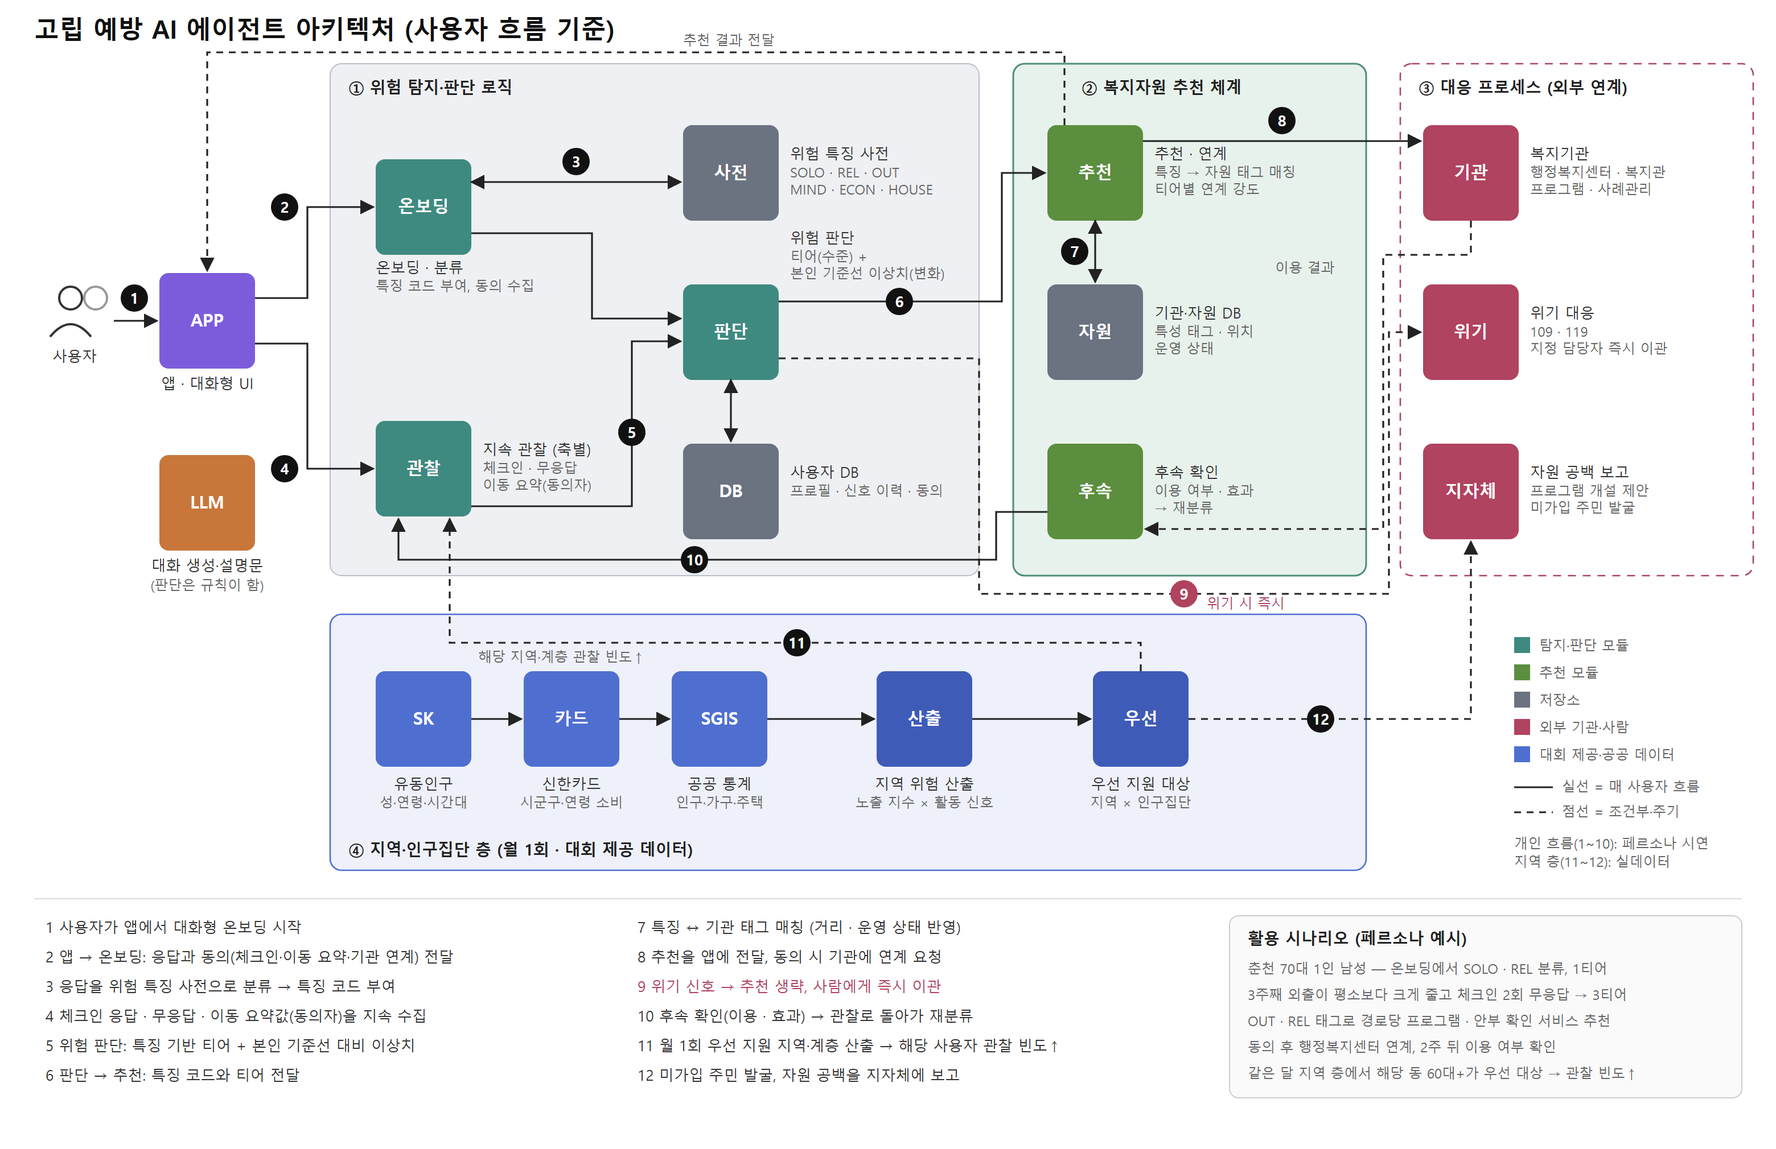
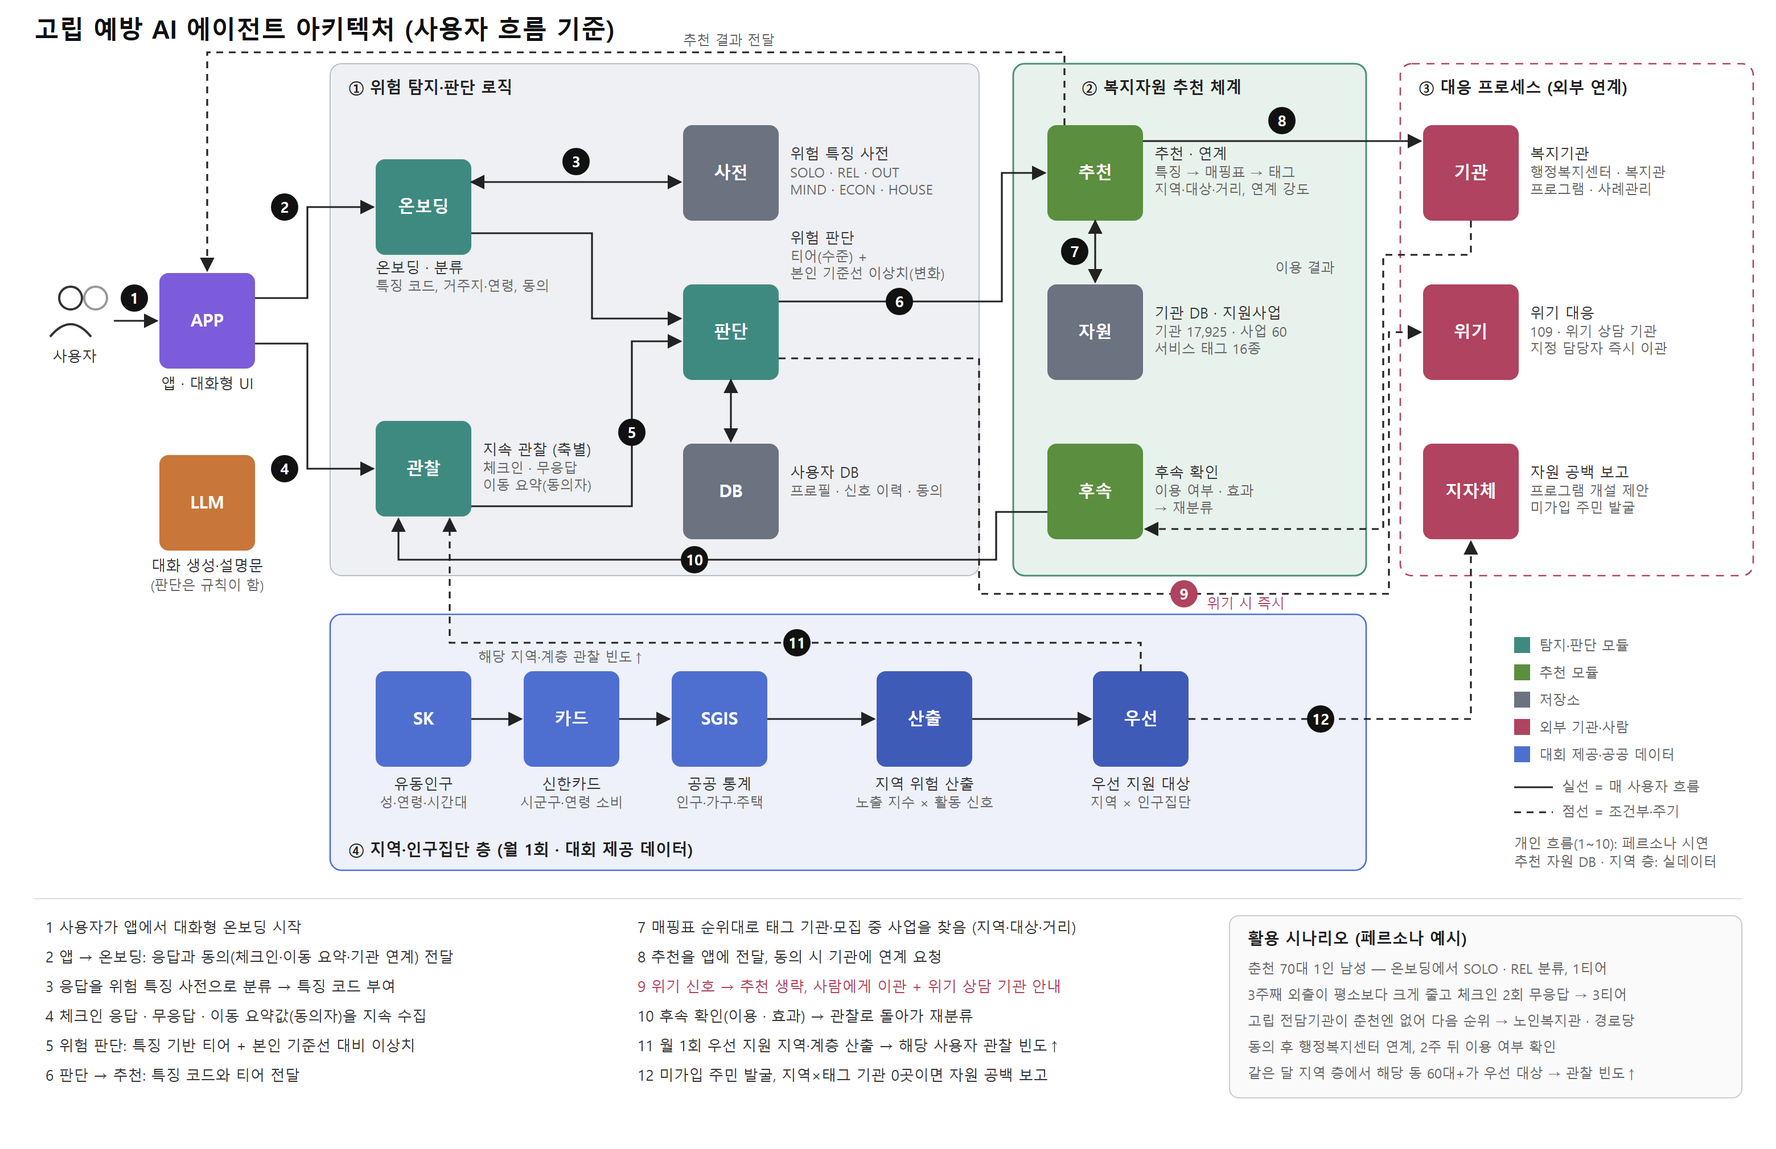
docs: 기관 수집 결과를 반영한 에이전트 서비스 플로우 v1.1 (#19)

diff --git a/docs/agent/architecture.html b/docs/agent/architecture.html
@@ -43,7 +43,7 @@
 
 <!-- ① 탐지·판단 -->
 <rect x="330" y="140" width="84" height="84" rx="8" fill="#3F8A80"/><text x="372" y="187" class="b" text-anchor="middle">온보딩</text>
-<text x="330" y="240" class="t">온보딩 · 분류</text><text x="330" y="256" class="s">특징 코드 부여, 동의 수집</text>
+<text x="330" y="240" class="t">온보딩 · 분류</text><text x="330" y="256" class="s">특징 코드, 거주지·연령, 동의</text>
 <rect x="330" y="370" width="84" height="84" rx="8" fill="#3F8A80"/><text x="372" y="417" class="b" text-anchor="middle">관찰</text>
 <text x="424" y="400" class="t">지속 관찰 (축별)</text><text x="424" y="416" class="s">체크인 · 무응답</text><text x="424" y="431" class="s">이동 요약(동의자)</text>
 <rect x="600" y="110" width="84" height="84" rx="8" fill="#6B7280"/><text x="642" y="157" class="b" text-anchor="middle">사전</text>
@@ -55,9 +55,9 @@
 
 <!-- ② 추천 -->
 <rect x="920" y="110" width="84" height="84" rx="8" fill="#5B8E3E"/><text x="962" y="157" class="b" text-anchor="middle">추천</text>
-<text x="1014" y="140" class="t">추천 · 연계</text><text x="1014" y="156" class="s">특징 → 자원 태그 매칭</text><text x="1014" y="171" class="s">티어별 연계 강도</text>
+<text x="1014" y="140" class="t">추천 · 연계</text><text x="1014" y="156" class="s">특징 → 매핑표 → 태그</text><text x="1014" y="171" class="s">지역·대상·거리, 연계 강도</text>
 <rect x="920" y="250" width="84" height="84" rx="8" fill="#6B7280"/><text x="962" y="297" class="b" text-anchor="middle">자원</text>
-<text x="1014" y="280" class="t">기관·자원 DB</text><text x="1014" y="296" class="s">특성 태그 · 위치</text><text x="1014" y="311" class="s">운영 상태</text>
+<text x="1014" y="280" class="t">기관 DB · 지원사업</text><text x="1014" y="296" class="s">기관 17,925 · 사업 60</text><text x="1014" y="311" class="s">서비스 태그 16종</text>
 <rect x="920" y="390" width="84" height="84" rx="8" fill="#5B8E3E"/><text x="962" y="437" class="b" text-anchor="middle">후속</text>
 <text x="1014" y="420" class="t">후속 확인</text><text x="1014" y="436" class="s">이용 여부 · 효과</text><text x="1014" y="451" class="s">→ 재분류</text>
 
@@ -65,7 +65,7 @@
 <rect x="1250" y="110" width="84" height="84" rx="8" fill="#B0435F"/><text x="1292" y="157" class="b" text-anchor="middle">기관</text>
 <text x="1344" y="140" class="t">복지기관</text><text x="1344" y="156" class="s">행정복지센터 · 복지관</text><text x="1344" y="171" class="s">프로그램 · 사례관리</text>
 <rect x="1250" y="250" width="84" height="84" rx="8" fill="#B0435F"/><text x="1292" y="297" class="b" text-anchor="middle">위기</text>
-<text x="1344" y="280" class="t">위기 대응</text><text x="1344" y="296" class="s">109 · 119</text><text x="1344" y="311" class="s">지정 담당자 즉시 이관</text>
+<text x="1344" y="280" class="t">위기 대응</text><text x="1344" y="296" class="s">109 · 위기 상담 기관</text><text x="1344" y="311" class="s">지정 담당자 즉시 이관</text>
 <rect x="1250" y="390" width="84" height="84" rx="8" fill="#B0435F"/><text x="1292" y="437" class="b" text-anchor="middle">지자체</text>
 <text x="1344" y="420" class="t">자원 공백 보고</text><text x="1344" y="436" class="s">프로그램 개설 제안</text><text x="1344" y="451" class="s">미가입 주민 발굴</text>
 
@@ -147,7 +147,7 @@
   <line x1="0" y1="132" x2="34" y2="132" class="ln"/><text x="42" y="136" class="s">실선 = 매 사용자 흐름</text>
   <line x1="0" y1="154" x2="34" y2="154" class="ln dash"/><text x="42" y="158" class="s">점선 = 조건부·주기</text>
   <text x="0" y="186" class="s">개인 흐름(1~10): 페르소나 시연</text>
-  <text x="0" y="202" class="s">지역 층(11~12): 실데이터</text>
+  <text x="0" y="202" class="s">추천 자원 DB · 지역 층: 실데이터</text>
 </g>
 
 <!-- 단계 설명 -->
@@ -159,19 +159,19 @@
   <text x="40" y="898">4 체크인 응답 · 무응답 · 이동 요약값(동의자)을 지속 수집</text>
   <text x="40" y="924">5 위험 판단: 특징 기반 티어 + 본인 기준선 대비 이상치</text>
   <text x="40" y="950">6 판단 → 추천: 특징 코드와 티어 전달</text>
-  <text x="560" y="820">7 특징 ↔ 기관 태그 매칭 (거리 · 운영 상태 반영)</text>
+  <text x="560" y="820">7 매핑표 순위대로 태그 기관·모집 중 사업을 찾음 (지역·대상·거리)</text>
   <text x="560" y="846">8 추천을 앱에 전달, 동의 시 기관에 연계 요청</text>
-  <text x="560" y="872" style="fill:#B0435F">9 위기 신호 → 추천 생략, 사람에게 즉시 이관</text>
+  <text x="560" y="872" style="fill:#B0435F">9 위기 신호 → 추천 생략, 사람에게 이관 + 위기 상담 기관 안내</text>
   <text x="560" y="898">10 후속 확인(이용 · 효과) → 관찰로 돌아가 재분류</text>
   <text x="560" y="924">11 월 1회 우선 지원 지역·계층 산출 → 해당 사용자 관찰 빈도↑</text>
-  <text x="560" y="950">12 미가입 주민 발굴, 자원 공백을 지자체에 보고</text>
+  <text x="560" y="950">12 미가입 주민 발굴, 지역×태그 기관 0곳이면 자원 공백 보고</text>
 </g>
 <!-- 시나리오 -->
 <rect x="1080" y="805" width="450" height="160" rx="8" fill="#FAFAFA" stroke="#ccc"/>
 <text x="1096" y="830" class="h">활용 시나리오 (페르소나 예시)</text>
 <text x="1096" y="856" class="s">춘천 70대 1인 남성 — 온보딩에서 SOLO · REL 분류, 1티어</text>
 <text x="1096" y="879" class="s">3주째 외출이 평소보다 크게 줄고 체크인 2회 무응답 → 3티어</text>
-<text x="1096" y="902" class="s">OUT · REL 태그로 경로당 프로그램 · 안부 확인 서비스 추천</text>
+<text x="1096" y="902" class="s">고립 전담기관이 춘천엔 없어 다음 순위 → 노인복지관 · 경로당</text>
 <text x="1096" y="925" class="s">동의 후 행정복지센터 연계, 2주 뒤 이용 여부 확인</text>
 <text x="1096" y="948" class="s">같은 달 지역 층에서 해당 동 60대+가 우선 대상 → 관찰 빈도↑</text>
 </svg>

diff --git a/docs/agent/README.md b/docs/agent/README.md
@@ -1,11 +1,21 @@
-# 고립 예방 에이전트 서비스 플로우 초안 — 2026-10-15
+# 고립 예방 에이전트 서비스 플로우 v1.1 — 2026-10-20
 
-> 팀 논의용 초안이다. 전체 흐름만 정하고, 판정 기준·문항·기관 매핑 같은 세부는 플로우 확정 후 정한다.
+> 팀 논의용 초안이다. v1.0(10/15)에 기관 수집(#18) 결과를 반영했다. 판정 기준·문항 같은 세부는 #17 위험 특징 사전 확정 후 정한다.
+
+**v1.1 변경 요약**
+
+- 기관 태그를 위험 특징과 같은 코드로 쓰지 않고, 서비스 기준 태그 16종 + 매핑표로 잇는 구조로 바꿨다 (1절).
+- 4단계 추천·연계의 절차와 쓰는 파일을 구체화했다. 추천 대상에 지원사업을 더했다 (2·3절).
+- 연계 강도를 태그별 1\~4로 정했다 (2절).
+- 온보딩에서 거주 시군구와 연령대를 받는다 (2절).
+- 위기 분기에 위기 상담 기관 안내를, 지역 층에 자원 공백 계산 방법과 실제 공백 사례를 더했다 (2절).
+- 시연 범위와 한계, 다음에 정할 것을 갱신했다 (6·7절).
 
 ## 1. 전제
 
 - 대회 요구(주제설명자료 1008): 위험 신호 탐지 → 위험 수준 판단 → 원인 분석 → 대응 방안·복지자원 추천 → **우선 지원 대상 지역·계층 도출**. 단위는 "지역 및 인구집단"이다.
-- 팀 결정(10/15 회의): 서비스 대상은 개인이다. 고립 대상은 [위험 특징 사전](https://app.notion.com/p/3fa1fad9262e8001bba3d049587667f8)(SOLO, REL, OUT, MIND, ECON, HOUSE 등)으로 분류하고, 같은 어휘로 태그한 기관과 연결한다.
+- 팀 결정(10/15 회의): 서비스 대상은 개인이다. 고립 대상은 [위험 특징 사전](https://app.notion.com/p/3fa1fad9262e8001bba3d049587667f8)(SOLO, REL, OUT, MIND, ECON, HOUSE 등)으로 분류한다.
+- **기관은 서비스 태그 16종으로 분류하고, 위험 특징과 태그는 매핑표로 잇는다.** 위험 특징(사람의 상태)과 기관 태그(기관이 제공하는 서비스)를 같은 코드로 쓰지 않는다. 그래서 #17 범주가 바뀌어도 기관 태그는 그대로 두고 매핑표만 고친다. 태그 정의와 매핑은 [`resource-tags.md`](resource-tags.md)에 있다.
 - 위험 지표와 위험 특징 사전 설계는 다른 팀원이 맡는다. 이 문서는 그 결과를 받아 쓰는 서비스 흐름만 다룬다.
 
 ## 2. 서비스 플로우
@@ -17,6 +27,7 @@
 ```
 0. 온보딩
    - 질문으로 위험 특징 정보 수집
+   - 거주 시군구와 연령대 수집 (추천 기관을 거르는 데 씀)
    - 동의 받기 (체크인 알림, 이동 요약값 수집, 기관 연계 시 정보 제공)
         ↓
 1. 분류
@@ -29,35 +40,67 @@
    - 수준: 위험 특징 개수·점수로 티어 결정          │
    - 변화: 본인 평소 상태 대비 이상치              │
    ├─ 위기 → 사람에게 즉시 이관                    │
+   │        + 위기 상담 기관(CRISIS_LINE) 안내      │
    ├─ 변화 없음 → 2로 ─────────────────────────┤
         ↓                                      │
 4. 추천·연계                                    │
-   - 특징 코드 → 복지서비스·지역사회 자원 매칭      │
-   - 티어가 높을수록 강한 연계                    │
-     (정보 제공 → 프로그램 참여 → 기관 사례관리)    │
+   - 특징 → 매핑표에서 추천 태그와 순서 확인        │
+   - 태그 기관을 시군구·대상 연령·운영 상태로 거름   │
+   - 가까운 순 최대 3곳 + 모집 중인 지원사업        │
+   - 해당 태그 기관이 없으면 다음 순위 태그로       │
+   - 티어가 높을수록 연계 강도가 높은 태그          │
+     (1 스스로 이용 → 2 상담 → 3 사례관리)          │
         ↓                                      │
 5. 후속 확인                                    │
-   - 이용했는지, 도움이 됐는지 확인 → 1에서 재분류 ─┘
+   - 이용했는지, 도움이 됐는지 기관·사업 ID로 기록   │
+   - 확인 결과로 1에서 재분류 ───────────────────┘
 
 [지역·인구집단 층 — 월 1회]
 제공 데이터(SK·카드) + 지역 노출 지수
    → 우선 지원 지역·계층 도출
    → ① 해당 지역·계층 사용자의 관찰 빈도 높이기 (2에 반영)
      ② 아직 가입하지 않은 주민 대상 발굴·가입 유도
-     ③ 맞는 자원이 없으면 '자원 공백'으로 보고
+     ③ 지역 × 태그 기관 수가 0이면 '자원 공백'으로 보고
 ```
+
+**4단계 추천·연계 상세**
+
+1. 사용자의 위험 특징을 `feature_tag_mapping.csv`에 넣어 추천할 태그와 순서를 정한다.
+2. `institutions.csv`에서 그 태그를 가진 기관을 사용자 시군구 → 대상 연령(`TARGET_AGE`) 일치 순으로 거른다. 위수탁 종료일(`VALID_UNTIL`)이 지난 기관은 "운영 여부 확인 필요"로 표시한다.
+3. 좌표가 있으면 가까운 순으로 정렬해 최대 3곳을 고른다.
+4. `support_programs.csv`에서 같은 태그·지역의 사업 중 모집 기간(`APPLY_END`)이 남은 것을 함께 안내한다.
+5. 해당 태그 기관이 그 지역에 없으면 다음 순위 태그로 넘어간다. 예: 고립 전담기관(`ISOLATION_CARE`)은 서울에만 있어서 춘천에서는 다음 순위인 사회참여(`SOCIAL_PART`) 기관을 추천한다.
+
+**연계 강도**
+
+태그마다 연계 강도를 정했다. 티어가 높을수록 강도가 높은 태그를 먼저 쓴다. 티어와 강도를 어떻게 대응시킬지는 7절에서 정한다.
+
+| 강도 | 성격 | 태그 |
+|---|---|---|
+| 1 | 정보·참여형 (스스로 이용) | `SOCIAL_PART`, `LEARNING`, `PHYSICAL`, `MEAL` |
+| 2 | 상담·관계형성형 | `MENTAL_CARE`, `ADDICTION`, `DEMENTIA`, `HEALTH_MGMT`, `JOB_INCOME`, `HOUSING`, `DISABILITY`, `FAMILY` |
+| 3 | 사례관리형 (기관이 개입) | `ISOLATION_CARE`, `CARE_CHECK`, `CASE_MGMT` |
+| 4 | 위기 개입 | `CRISIS_LINE` |
+
+**자원 공백 (지역 층 ③)**
+
+지역 × 태그별 기관 수로 계산한다. 현재 수집 결과에서 확인된 공백은 다음과 같다.
+
+- 고립 전담기관(`ISOLATION_CARE`)은 서울에만 있다 (103곳).
+- 강남구 안에 위기 상담 기관(`CRISIS_LINE`)이 없다. 서울시 단위 기관 4곳으로 연결해야 한다.
+- 인천은 공공체육시설(`PHYSICAL`), 경기·춘천은 가족센터(`FAMILY`) 목록이 없다. 실제 기관이 없는 것인지 공개 자료가 없는 것인지는 구분해야 한다.
 
 ## 3. 단계별 역할
 
 | 단계 | 핵심 질문 | 쓰는 데이터 |
 |---|---|---|
-| 0 온보딩 | 이 사람은 처음에 어떤 상태인가 | 온보딩 응답 |
-| 1 분류 | 어떤 위험 특징을 가졌나 | 위험 특징 사전 |
+| 0 온보딩 | 이 사람은 처음에 어떤 상태이고 어디에 사는가 | 온보딩 응답 (위험 특징, 거주 시군구, 연령대) |
+| 1 분류 | 어떤 위험 특징을 가졌나 | 위험 특징 사전 (#17) |
 | 2 관찰 | 상태가 바뀌고 있나 | 체크인, 무응답, 이동·체류 |
 | 3 탐지 | 지금 개입해야 하나, 얼마나 강하게 | 티어 + 이상치 |
-| 4 연계 | 무엇을 연결하나 | 특징 ↔ 기관 태그 매핑 |
-| 5 후속 | 효과가 있었나 | 이용 여부, 다음 체크인 |
-| 지역 층 | 어디의 누구를 먼저 챙기나 | SK·카드·SGIS (대회 제공 데이터 필수 사용) |
+| 4 연계 | 무엇을 연결하나 | `feature_tag_mapping.csv`, `institutions.csv`, `support_programs.csv` |
+| 5 후속 | 효과가 있었나 | 이용 여부(기관·사업 ID), 다음 체크인 |
+| 지역 층 | 어디의 누구를 먼저 챙기나 | SK·카드·SGIS (대회 제공 데이터 필수 사용), 지역 × 태그 기관 수 |
 
 ## 4. 지속 관찰 신호
 
@@ -65,7 +108,7 @@
 
 | 신호 | 수집 방법 | 비고 |
 |---|---|---|
-| 체크인 응답 | 대화로 1~2문항씩 정기적으로 묻기 (외로움·우울 척도) | 위험 단계가 높을수록 자주 묻는다 (월 1회~매일) |
+| 체크인 응답 | 대화로 1\~2문항씩 정기적으로 묻기 (외로움·우울 척도) | 위험 단계가 높을수록 자주 묻는다 (월 1회\~매일) |
 | 무응답·응답 지연 | 체크인 기록 | 답이 없다는 것 자체가 위험 신호다 |
 | 이동·체류 | 휴대폰 안에서 계산한 요약값만 전송 (집 체류시간, 외출 횟수, 저녁·주말 외출) | 동의한 사람만 쓴다. 근거는 Doryab 2019 |
 | 지역 신호 | 지역 고립 노출 지수 × 고령층 유동 감소 신호(H4) | 대회 제공 데이터(SK)를 실제로 쓰는 부분 |
@@ -88,15 +131,15 @@
 | 지표 축 대응 | 지역 지표의 어느 축과 대응하는지 | 활동 신호(H4) |
 | 성격 | 정적(잘 안 변함) / 동적(자주 변함) | 동적 |
 | 개인 측정 방법 | 체크인 문항, 이동 요약, 사건 질문 | 이동 요약 + "지난주 외출 일수" 문항 |
-| 측정 주기 | 정적은 분기·사건 발생 시, 동적은 위험 단계에 따라 | 주 1회 ~ 매일 |
+| 측정 주기 | 정적은 분기·사건 발생 시, 동적은 위험 단계에 따라 | 주 1회 \~ 매일 |
 | 변화 기준 | 본인 기준선 대비 악화 조건 | 기준선 대비 크게 감소가 2주 지속 |
 | 민감도·동의 | 별도 동의가 필요한지 | 이동 요약은 별도 동의 |
-| 연결 자원 태그 | 악화 시 매칭할 기관 태그 | 여가·체육·경로당 |
+| 연결 자원 태그 | 악화 시 매칭할 기관 태그 (`feature_tag_mapping.csv` 순서) | `ISOLATION_CARE` → `SOCIAL_PART` → `PHYSICAL` → `LEARNING` |
 
 **설계 조건:**
 
 1. **정적 축과 동적 축을 나눈다.** 독거·주거처럼 잘 바뀌지 않는 축은 매번 묻지 않고, 분기 재확인이나 "이사했어요", "가족이 떠났어요" 같은 사건이 대화에서 나올 때만 갱신한다. 지속 추적은 관계·외출·정신건강 같은 동적 축에 집중한다.
-2. **질문 예산을 둔다.** 체크인 1회에 1~2문항만 묻고, 축을 돌아가며 묻는다. 최근 악화된 축과 온보딩에서 위험으로 분류된 축을 먼저 묻는다. 문항이 늘면 응답률이 떨어지고, 무응답 신호까지 오염된다.
+2. **질문 예산을 둔다.** 체크인 1회에 1\~2문항만 묻고, 축을 돌아가며 묻는다. 최근 악화된 축과 온보딩에서 위험으로 분류된 축을 먼저 묻는다. 문항이 늘면 응답률이 떨어지고, 무응답 신호까지 오염된다.
 3. **지역 축과 개인 측정은 같은 것이 아니다.** 지역 지표의 축(예: 집계구 1인가구 비율)은 지역 단위 값이다. 개인 측정(예: 본인의 동거 여부)과 이름만 공유한다. 축 대응표는 어휘를 맞추는 용도이고, 지역 값을 개인 점수로 쓰지 않는다.
 4. **민감 축은 동의를 따로 받는다.** 정신건강·경제 축은 응답을 거부해도 서비스가 계속되어야 하고, 거부는 위험 신호로 세지 않는다.
 
@@ -109,19 +152,31 @@
 | 위험 신호 탐지 | 2 관찰, 지역 층 |
 | 위험 수준 판단 | 3 탐지 |
 | 위험 원인 분석 | 1 분류 (어떤 특징 때문인지) |
-| 대응 방안·복지자원 추천 | 4 추천·연계 |
+| 대응 방안·복지자원 추천 | 4 추천·연계 (기관 17,925곳, 지원사업 60건) |
 | 우선 지원 대상 지역·계층 도출 | 지역 층 |
-| 데이터 지속 활용성 (평가 10점) | 5 후속 확인 결과가 쌓여 특징별 자원 효과를 평가 |
+| 데이터 지속 활용성 (평가 10점) | 5 후속 확인 결과가 기관·사업 ID에 쌓여 특징별 자원 효과를 평가. 기관 목록은 수집·정제 코드로 다시 만들 수 있음 |
 
 ## 6. 시연과 한계
 
-- 개인 단위 흐름(0~5)은 실데이터가 없어 **페르소나 합성 데이터**로 시연한다. 생성 방식 설명자료를 함께 제출한다 (대회 규칙).
-- 지역 층만 대회 제공 실데이터로 돈다.
+- 개인 단위 흐름(0\~5)의 사용자 데이터는 실데이터가 없어 **페르소나 합성 데이터**로 시연한다. 생성 방식 설명자료를 함께 제출한다 (대회 규칙).
+- **실데이터로 도는 부분:** 지역 층(대회 제공 데이터)과 4단계 추천에 쓰는 기관·지원사업 DB(공공데이터, [`resource-tags.md`](resource-tags.md)).
 - 이동·체류 수집은 동의, 단말 권한, 배터리 문제가 있어 선택 기능으로 둔다. 없어도 체크인만으로 흐름이 돌아가야 한다.
+- **추천 자원 DB의 한계:**
+  - 좌표가 있는 기관은 73.6%다. 사회복지관·행정복지센터 등은 원본에 좌표가 없어, 거리순 추천을 하려면 지오코딩(주소 → 좌표)이 필요하다.
+  - 태그는 기관 유형 단위 규칙으로 붙였다. 개별 기관의 실제 서비스와 다를 수 있어, 시연에 쓰는 기관은 홈페이지로 다시 확인한다.
+  - 일부 원본은 기준일이 오래됐다 (노인맞춤돌봄 수행기관 2024-04 기준).
 
 ## 7. 다음에 정할 것
 
-- 위험 특징 사전 확정본의 코드 이름 (A 작업)
+**해결됨 (v1.1)**
+
+- 기관 태그 어휘 16종과 태그별 연계 강도 (#18)
+
+**남은 것**
+
+- 위험 특징 사전 확정본의 코드 이름 (#17) → 확정 후 `feature_tag_mapping.csv` 코드 맞추기
 - 분석 팀이 지역 층에 넘길 결과 형식 (입력 계약)
-- 티어 수와 단계별 연계 강도
+- 티어 수와, 티어별로 쓸 연계 강도
 - 고립 지표 축 확정 후 축 레지스트리 교체 (4-1)
+- 거리순 추천을 위한 지오코딩 여부
+- 서울시고립예방센터 누리집 수집 자료를 대회 규정상 쓸 수 있는지 확인
